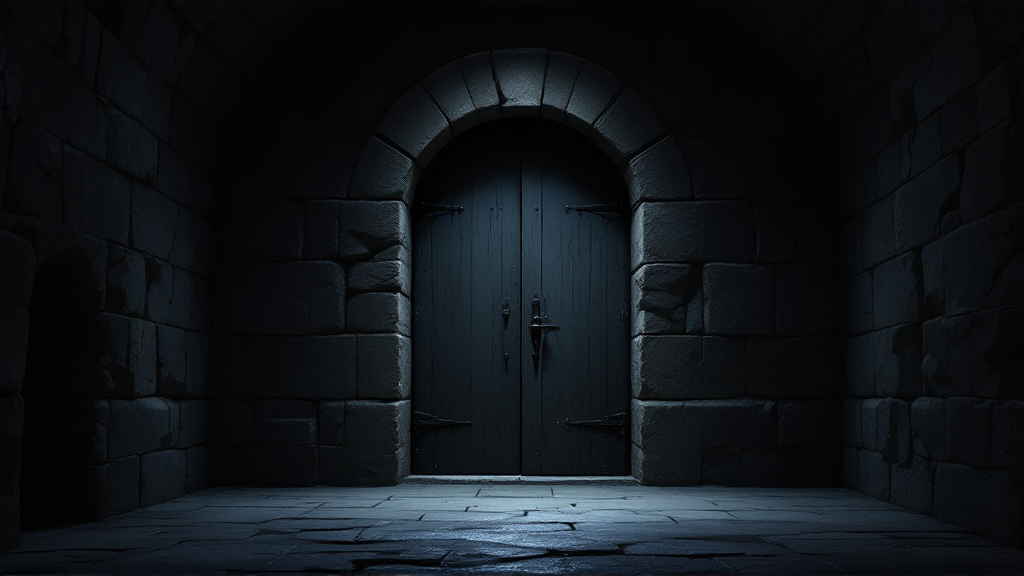
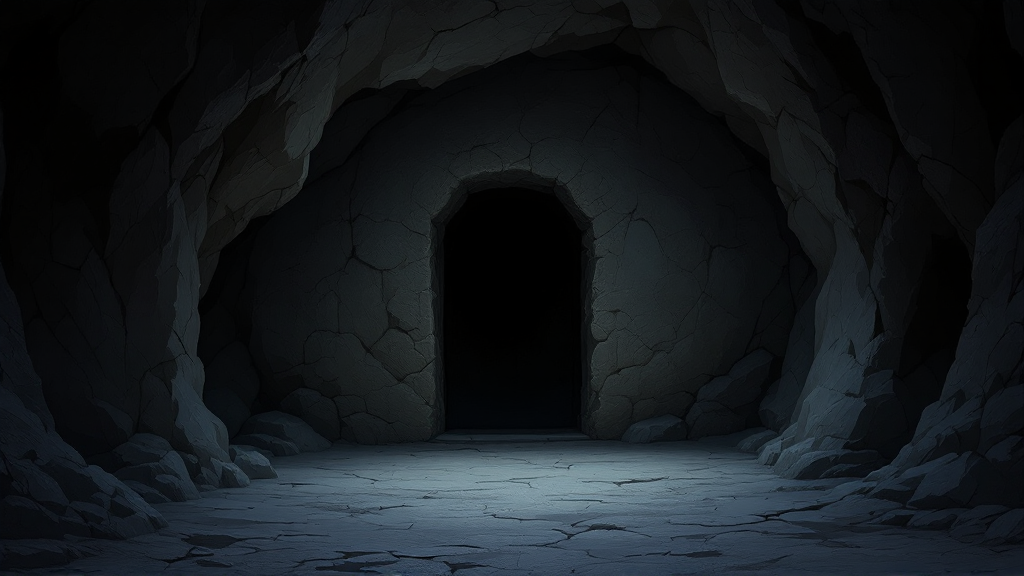
fix: cave material contract repaints, duplicate TrollsFire button, hall music on return
- Art pipeline now enforces a material contract in all three stages
  (brief, paint registers, verify style gate): cave walls are raw
  rough-hewn cracked rock, doors are battered aged timber with rusted
  iron set into the rock — never dressed/polished palace masonry.
- Repainted rooms 6-14 (passages + cells) under the new contract;
  room 10 accepted by human override (flux won't show both side doors
  from this POV) with baked-in letterbox bars cropped off.
- combat-scene.js: magic-word choices (Ignite/Douse TrollsFire) are
  skipped in the generic choice loop — the flame button from
  combat.magicWords is the single control (was rendering twice).
- audio.js: returning to the hall explicitly revives hallMusic;
  switchMusic no-opped because entering the cave fades the track out
  without switching, so the hall came back silent.

diff --git a/public/js/audio.js b/public/js/audio.js
@@ -179,9 +179,16 @@ export function updateAudioForResponse(response) {
     const fallback = /cell|chamber/i.test(response?.state?.room?.name ?? '') ? 'cell' : 'tunnel';
     setAmbience(amb?.track ?? fallback, amb?.volume ?? 0.3);
   } else if (phase) {
-    // Hall & shops: music is home; ambience sleeps.
+    // Hall & shops: music is home; ambience sleeps. Don't rely on
+    // switchMusic here — entering the cave fades hallMusic out WITHOUT
+    // switching tracks, so switchMusic(hallMusic) would no-op and leave the
+    // hall silent on return. Revive it explicitly.
     stopAmbience();
-    switchMusic(hallMusic);
+    bgMusic = hallMusic;
+    if (state.musicEnabled && (hallMusic.paused || hallMusic.volume < 0.29)) {
+      hallMusic.play().catch(() => {});
+      fadeTo(hallMusic, 0.3);
+    }
   }
   playAudioForEvents(response);
 }

diff --git a/public/js/combat-scene.js b/public/js/combat-scene.js
@@ -134,6 +134,9 @@ function renderActions(choices, spells, potions, magicWords) {
 
   for (const choice of all.filter((c) => !isMoveChoice(c))) {
     const c = String(choice);
+    // Magic-word items (TrollsFire) get their own flame button below from
+    // combat.magicWords — skip the generic duplicate from the choice list.
+    if (/^(ignite|douse)\b/i.test(c.trim())) continue;
     const variant = /^attack/i.test(c) ? 'primary'
       : /^spare/i.test(c) ? 'mercy'
         : /^(brace|dodge|interrupt)$/i.test(c.trim()) ? 'stance'
